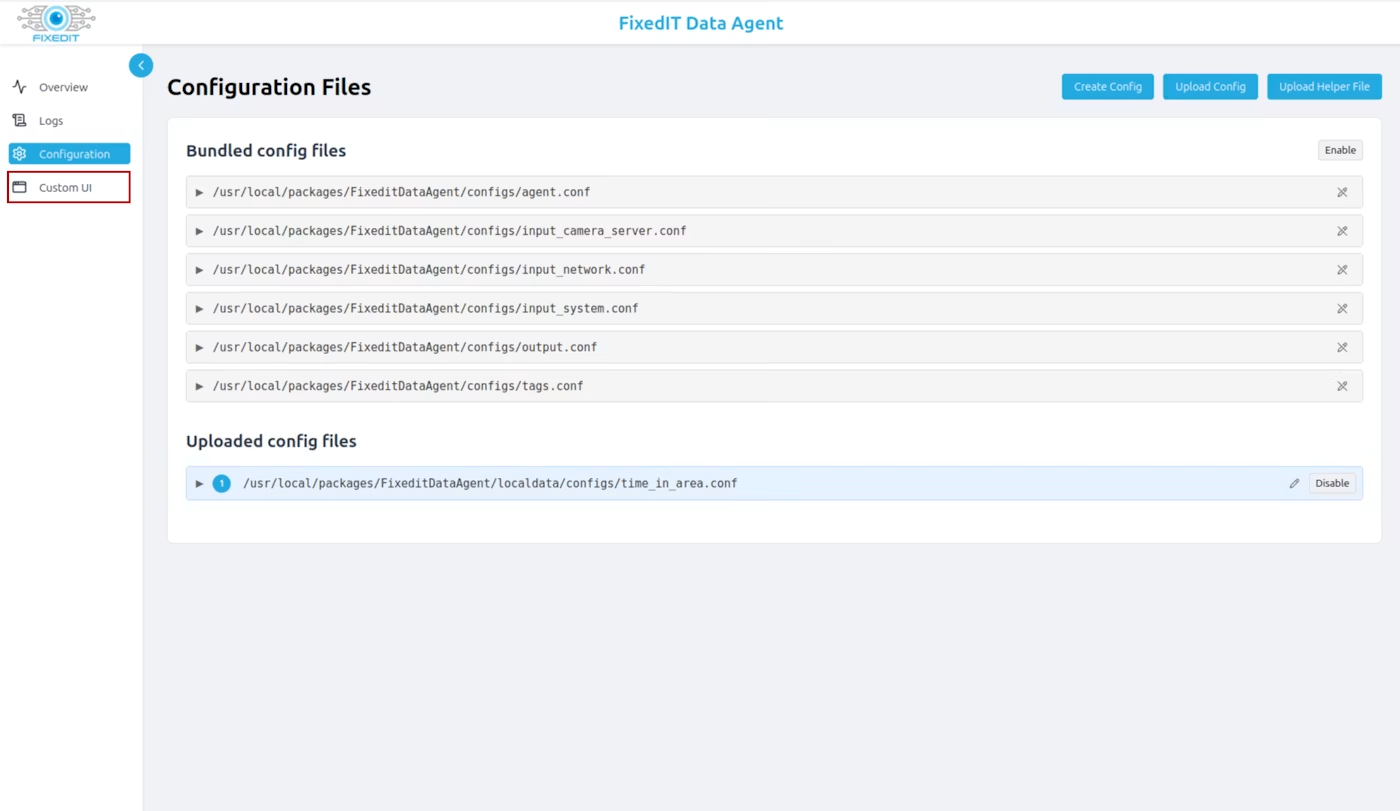
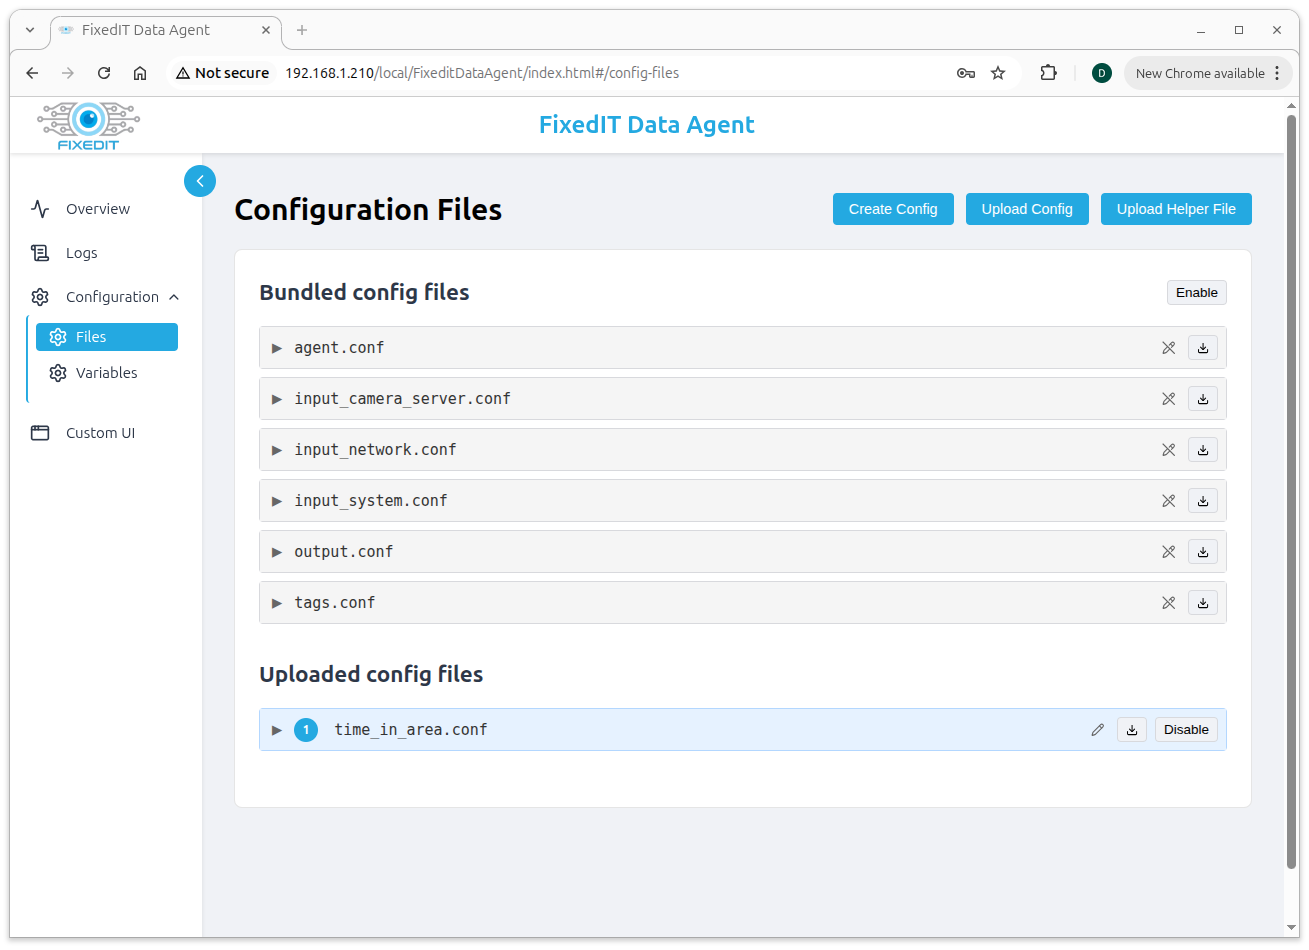
Review fixes to README

diff --git a/project-time-in-area-analytics/README.md b/project-time-in-area-analytics/README.md
@@ -1,6 +1,8 @@
 # Time-in-Area Analytics
 
-This project demonstrates how to implement time-in-area analytics on Axis cameras using the [FixedIT Data Agent](https://fixedit.ai/products-data-agent/). It consumes real-time object detection metadata from the camera's [AXIS Scene Metadata](https://developer.axis.com/analytics/axis-scene-metadata/reference/concepts/) stream and implements custom time-in-area logic using Telegraf's Starlark processor. The system uses object tracking IDs to track objects within a defined polygon area, measures time in area, and triggers alert notifications via events when objects remain in the monitored zone beyond configured thresholds. While AXIS Object Analytics natively supports time-in-area on many camera models, fisheye cameras lack this capability. This project bridges that gap for fisheye cameras, but it goes further than that. You can get detailed per-track time-in-area sent to InfluxDB for visualization in e.g. Grafana (useful for retail situations). It is also easy to extend this project further, e.g. with multiple trigger durations for warning, alarm and guard notification.
+This project demonstrates how to implement time-in-area analytics on Axis cameras using the [FixedIT Data Agent](https://fixedit.ai/products-data-agent/). It consumes real-time object detection metadata from the camera's [AXIS Scene Metadata](https://developer.axis.com/analytics/axis-scene-metadata/reference/concepts/) stream and implements custom time-in-area logic using Telegraf's Starlark processor. The system uses object tracking IDs to track objects within a defined polygon area, measures time in area, and triggers alert notifications via events when objects remain in the monitored zone beyond configured thresholds.
+
+Unlike the AXIS Object Analytics Time-in-Area use case, this also works on Axis Fisheye cameras. It goes further than that. You can get detailed per-track time-in-area metrics sent to InfluxDB for visualization in e.g. Grafana (useful for retail situations, for example). It is also easy to extend this project further, e.g. with multiple trigger durations for warning, alarm and guard notification.
 
 ## How It Works
 
@@ -128,6 +130,7 @@ Color scheme:
 - [Quick Setup](#quick-setup)
   - [Troubleshooting](#troubleshooting)
     - [Zone import: Make sure AXIS Object Analytics is enabled](#zone-import-make-sure-axis-object-analytics-is-enabled)
+    - [No object detections](#no-object-detections)
     - [Debug mode](#debug-mode)
     - [Gradual Testing](#gradual-testing)
     - [Unresolved variable errors](#unresolved-variable-errors)
@@ -185,6 +188,10 @@ Color scheme:
 
 This section includes quick setup instructions for the project. You can find more detailed instructions, including images showing the process step-by-step, in [this blog post](https://learning.fixedit.ai/posts/blog-fixedit-edge-unlocked-trigger-alarms-and-get-detailed-statistics-about-time-in-area-using-the-fixedit-data-agent).
 
+First, press disable on the bundled config files to ensure they are not interfering with the project's files.
+
+![Disable bundled config files](../.images/configuration-page-disable-bundled.png)
+
 Upload [`generated/time_in_area.conf`](./generated/time_in_area.conf) as a config file and enable it. This single file contains the full alert and overlay pipeline (including inlined `.star` and `.sh` helpers) and duplicates detection metrics as `time_in_area_frame` so you can add InfluxDB output later without changing the main config. To regenerate it after changing individual config files, see [Generate time_in_area.conf](#generate-time_in_areaconf).
 
 ![Time-in-area configuration file uploaded](.images/config-uploaded.png)
@@ -211,10 +218,10 @@ After enabling and configuring the InfluxDB output, you should expect to see dat
 
 **Upload individual files**
 
-Instead of using a single combined config file, you can upload the individual files from this project separately. This gives you more modularity and is easier if you want to do any modifications to the files. The only drawback is that it might take longer time to upload all the files, and it can be more error-prone if the files are enabled in the wrong order.
+Instead of using a single combined config file, you can upload the individual files from this project separately. This gives you more modularity and is easier if you want to do any modifications to the files. The only drawback is that it might take longer to upload all the files, and it can be more error-prone if the files are enabled in the wrong order.
 
 - See the [Generate time_in_area.conf](#generate-time_in_areaconf) section and follow the same order as the files are used there when enabling them
-- It's the order you enable the files in that sets the load order (indictaed by the blue circle icon before the filename)
+- It's the order you enable the files in that sets the load order (indicated by the blue circle icon before the filename)
 - Upload all `*.sh` files as helper files marked with the `Make executable` checkbox
 - Upload all `*.star` files as helper files
 
@@ -226,19 +233,27 @@ The configuration page might now look like this:
 
 #### Zone import: Make sure AXIS Object Analytics is enabled
 
-If you want to import zones from AXIS Object Analytics in the user interface, it needs to be running. You can go to the `Analytics` -> `Metadata visualization` page and verify that there are actual detections. The time-in-area analytics with manually defined zones will work without AXIS Object Analytics.
+If you want to import zones from AXIS Object Analytics in the custom UI, it needs to be running. Go to the camera's `Apps` tab and make sure the AXIS Object Analytics app is running.
+
+The time-in-area analytics with manually defined zones will work without AXIS Object Analytics running.
+
+#### No object detections
+
+This project is consuming object detection data from the camera's AXIS Scene Metadata stream (the built-in deep learning model). You can go to the camera's `Analytics` -> `Metadata visualization` page and verify that there are actual detections.
+
+If the detections are visible there, but not in this project's output, then enable debug mode as described in the next section.
 
 #### Debug mode
 
 Enable the `Debug Mode` option in the custom UI for detailed logs and live overlay.
 
-![Enable the Debug Mode](.images/custom-ui-debug.png)
+![Enable Debug Mode](.images/custom-ui-debug.png)
 
 Debug logging will be seen in the `Logs` tab and the `.debug` files will appear in the `Helper files` section of the `Configuration->Files` page (refresh page to see updates).
 
-The live overlay will update when an object has been in the zone for more than the configured threshold. The arrow will point to the position the object was last seen at and the text will show the class of the object and for how long time it was in the zone.
+The live overlay will update when an object has been in the zone for more than the configured threshold. The arrow will point to the position the object was last seen at and the text will show the class of the object and how long it was in the zone.
 
-The live overlay will stay after the object leaves the zone as an indication of the last alarm. If you disable the debug mode again, you will need to manually remove the overlay in the cameras `Video->Overlays` tab.
+The live overlay will stay after the object leaves the zone as an indication of the last alarm. If you disable debug mode again, you will need to manually remove the overlay in the camera's `Video->Overlays` tab.
 
 ![Live overlay](.images/live-overlay.png)
 
@@ -246,9 +261,9 @@ The live overlay will stay after the object leaves the zone as an indication of 
 
 #### Gradual Testing
 
-You can test the logic gradually on the camera by enabling one config at a time. Upload [`test_files/config_output_stdout.conf`](./test_files/config_output_stdout.conf) first and keep it enabled throughout so metrics appear in the Logs tab as you add each stage:
+You can test the logic gradually on the camera by enabling one config at a time:
 
-1. **Stdout logging**: Upload and enable `test_files/config_output_stdout.conf` to make output metrics visible in the Logs tab
+1. **Stdout logging**: Upload and enable `test_files/config_output_stdout.conf` to make output metrics visible in the Logs tab. Keep it enabled throughout as you add each stage.
 
 2. **Basic Detection**: Upload `config_input_scene_detections.conf` and `axis_scene_detection_consumer.sh` to see if the camera is sending out detection messages
 
@@ -339,7 +354,7 @@ Duplicates each `detection_frame_with_duration` metric so the same detection can
 - Passes through `detection_frame_with_duration` unchanged (for threshold filtering and overlays)
 - Emits a copy named `time_in_area_frame` (for InfluxDB)
 
-The reason we need to do this is because only one processor can use a metric unless it emits it again. Duplicating it with a new names creates a more modular design where the components are not as dependent on each other.
+The reason we need to do this is because only one processor can use a metric unless it emits it again. Duplicating it with a new name creates a more modular design where the components are not as dependent on each other.
 
 ### config_process_threshold_filter.conf
 